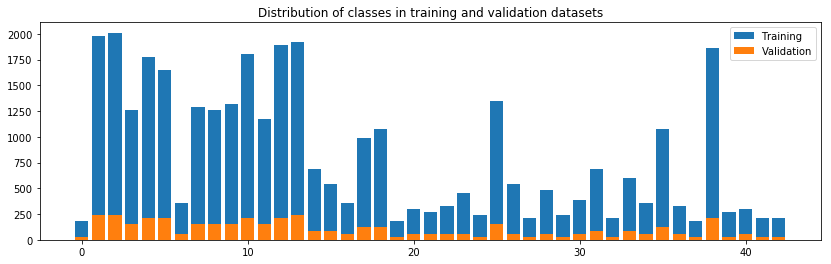
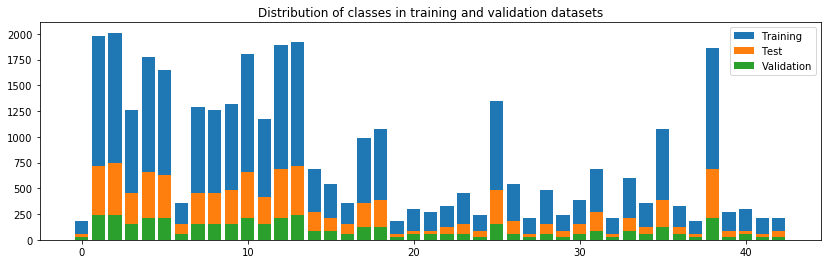
Writeup

Changed region(s): [[0.0903, 0.6061, 0.9627, 0.9091], [0.8724, 0.1818, 0.9928, 0.303]]

diff --git a/writeup.md b/writeup.md
@@ -26,7 +26,7 @@ You're reading it! and here is a link to my [project code](https://github.com/ca
 
 #### 1. Summary ####
 
-The data set consists of RGB images 32x32 pixels each.
+The data set consists of RGB images of German traffic signs, 32x32 pixels each.
 
 I used the pandas library to calculate summary statistics of the traffic
 signs data set:
@@ -39,7 +39,7 @@ signs data set:
 
 #### 2. Exploration ####
 
-Here is an exploratory visualization of the data set. It is a bar chart showing how the data is distributed between image classes. The distribution is not uniform and probably represents real distribution on German streets.
+Here is an exploratory visualization of the data set. It is a bar chart showing how the data is distributed between image classes. The distribution is not uniform and probably represents the real sign distribution on German streets.
 
 
 ![Image classes distribution](images/distribution.png)
@@ -62,7 +62,7 @@ As a first strp I decided to convert images from RGB to YUV color space. The Y c
 </table>
 
 
-In grayscale image from the Y channel I then increase contrast by doing histogram correction.
+In the grayscale image from the Y channel I then increase contrast by doing histogram correction.
 
 As a last step I normalize values converting numbers from range [0..255] to [-1..1]. That makes learning more stable and estimation of weights deviation easier.       
 
@@ -82,7 +82,7 @@ Training Accuracy = 0.984 Validation Accuracy = 0.893
 > EPOCH 9 ...
 Training Accuracy = 0.991 Validation Accuracy = 0.904
 
-This is a clear sign of overfitting when the network just rememberes training images and fails to generalize features. To make learning more stable and force the network to find general features I created more data by slightly modifying source images.
+This is a clear sign of overfitting when the network just rememberes training images and fails to generalize features. To make learning more stable and force the network to find general properties I created more data by slightly modifying source images.
 
 From every source image I generated another five by randomly applying the following transformations:
 
@@ -108,10 +108,10 @@ There are two data flows through the network.
  
 - The color channels U and V are thought to extract general information about color and the shape of the sign. That should help the neural network to quickly detect the type of sign like is it a warning (red triangle) or a mandatory sign (blue circle).
  
-The outputs of feature- and color-detection data flows are then flattend and mixed in inception layer that is then   
+The outputs of feature- and color-detection data flows are then flattend and mixed in the inception layer that is then   
 passed to 3 fully-connected layers for the final classification.
 
-To prevent network from overfitting there is a drop layer between fully-connected layers that randomly drops 50% of input. That forces the network to learn general features instead of simply memorizing small image details. 
+To prevent network from over fitting there is a drop layer between fully-connected layers that randomly drops 50% of input. That forces the network to learn general features instead of simply memorizing small image details. 
 
 
 <img src="images/architecture.png" /> 
@@ -144,11 +144,11 @@ My final model consisted of the following layers:
 |Softmax				| 	        									|
 
  
-####3. Describe how you trained your model. The discussion can include the type of optimizer, the batch size, number of epochs and any hyperparameters such as learning rate.
+#### 3. Training the model ####
 
 To train the model, I used reduce-mean operation on cross-entropy as the cost function. The reference LeNet-5 implementation uses hard-coded mean deviation for initial values of weights, I replaced it with the inverse sqaure root of weights count as recomended in DeepLearning Nanodegree.
 
-The training is done with batch size 128 in 25 epochs. After 20 epochs the error curve si getting flat and further culculations do not improve  accuracy that much. 
+The training is done with batch size 128 in 25 epochs. After 20 epochs the error curve is getting flat and further culculations do not improve  accuracy that much. Learning rate of 0.001 provides good results.
 
 <img src="images/error.png" /> 
 
@@ -156,29 +156,30 @@ The network is still overfitting a bit and should be trained on a bigger dataset
 
 The Adam optimizer works pretty well. After 25 epochs the network reaches accuracy of about 95%.
 
-####4. Describe the approach taken for finding a solution and getting the validation set accuracy to be at least 0.93. Include in the discussion the results on the training, validation and test sets and where in the code these were calculated. Your approach may have been an iterative process, in which case, outline the steps you took to get to the final solution and why you chose those steps. Perhaps your solution involved an already well known implementation or architecture. In this case, discuss why you think the architecture is suitable for the current problem.
+#### 4. Results ####
 
 My final model results were:
 * training set accuracy of 98.1%
 * validation set accuracy of 95.2% 
 * test set accuracy 12045 of 12630 = 95.4%
 
-If an iterative approach was chosen:
+The model was improved in iterative steps:
+
 * As starting point I took the LeNet-5 architecture
 * That architecure has accuracy about 88-90% on the German Trafic Signs Dataset.
 * To improve the accuracy I splited images in Y-U-V channels. The Y (grascale) channel is used for small detail detecion, while color channels U and V help the network to capture color and shape of an image.   
-* Increasing contrast of the Y channel also improved the accuracy.
-* The network showed great accuracy >99% on training dataset, but only 90% on the validation images. That means it just "rememebered" training images.   
-* To reduce overfitting I added drop layer with keep probability of 50%. That improved the accuracy on the validation dataset. Probability values over 70% do not regulaize the model enough and drop more then half of values makes learining much slower.
-* Further I decided to generate more training images by slightly modifing existing ones.
-* The convolution layers were forced to "learn" the structure of signs and do not focus on exact location of features.  
+* Increasing contrast of the Y channel improved the accuracy.
+* The network showed great accuracy >99% on training dataset, but only 90% on validation images. That means it just "rememebered" the training images.   
+* To reduce overfitting I added a drop layer with keep probability of 50%. That improved the accuracy on the validation dataset. Probability values >70% do not regulaize the model enough and dropping more then half of values makes learining much slower. 50% seems to be a good compromise.
+* Then I decided to generate more training images by slightly modifing existing ones. That is done by slightly rotating, shifting and scaling source images.
+* This small changes forced convolution layers to "learn" the structure of signs and do not focus on exact location of details.  
 * Other fine tuning was increasing the nuber of epochs to 25. I was using GPU instance in AWS cloud and was still able to run full training in less than 5 minutes.
-* Finally I got accuracy of 95%. The model is still overfitting a bit, and probably needs to be trained with more real data.
+* Finally I got accuracy of 95%. The model is still overfitting a bit and probably needs to be trained with more real data.
 * I think the most important architecture decision was to have two data flows: one for detail detection and one for color/shape detection and mix them in the inception layer. 
-* Further improvement could be batch normalization of conv layer outputs and using **leaky** ReLU activation as I did in Image Classification project in DeepLearining nanodegree. 
+* Possible improvement could be  a batch normalization of conv layer outputs and using **leaky** ReLU activation as I did in Image Classification project in DeepLearining nanodegree. 
  
 
-###Test a Model on New Images
+### Testing the Model on New Images
 
 #### 1. Real images ####
 
@@ -219,9 +220,9 @@ The most interesting images are the following:
 
 <img src="./images/stop.png" width=200 height=200>
 
-The stop sign is hanging pretty high and I made the photo from the ground level. The sign on the picture has oval shape and is squeezed vertically.
+This stop sign is hanging pretty high and I made the photo from the ground level. The sign on the picture has oval shape and is squeezed vertically.
 
-The second group of signs that can be hard to identify are the warning signs. Downscaled to 32x32 pixels they all look same like "a red triangle with some vertical noisy structure in the middle"
+The second group of signs that can be hard to identify are the warning signs. Downscaled to 32x32 pixels they all are looking the same, something like a "red triangle with vertical noisy structure in the middle".
 
 <table>
 	<tr>
@@ -261,7 +262,7 @@ Here are the results of the prediction:
 | Roundabout mandatory | Roundabout mandatory 100.000% | Go straight or left  0.000% |
 | End of no passing | End of no passing 99.998% | End of all speed and passing limits  0.002% |
 
-The model was able to correctly guess 20 of the 20 real traffic signs, which gives an accuracy of 100%. Probably it's because I made photos in the middle of a cloudy day and there are no contrast shadows that could distort the shape. The lighting conditions were almost perfect.
+The model was able to correctly guess 20 of the 20 real traffic signs, which gives an accuracy of 100%. Probably it's because I made photos in the middle of a cloudy day with no contrast shadows that could distort the shape. The lighting conditions were almost perfect.
 
 The model was not absolutelly sure with the sign "Trafic signals" that was predicted correctly, but the next candidate "General caution" also has non-zero score. As expected, the model has some difficulties with the similar looking warning signs.
 
